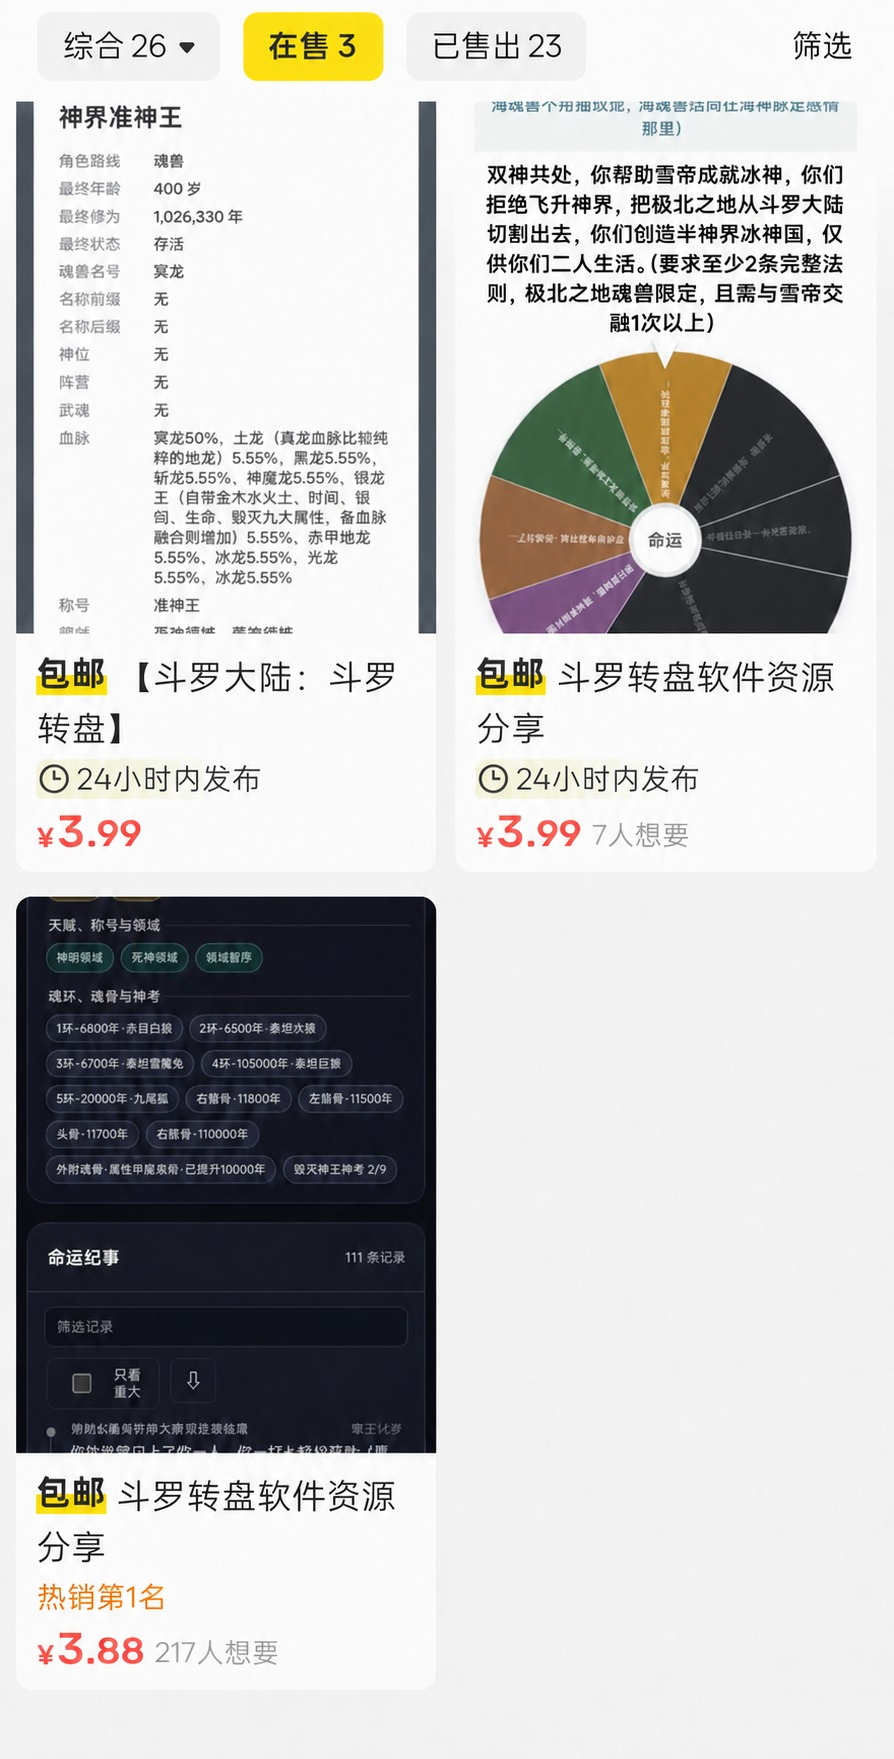
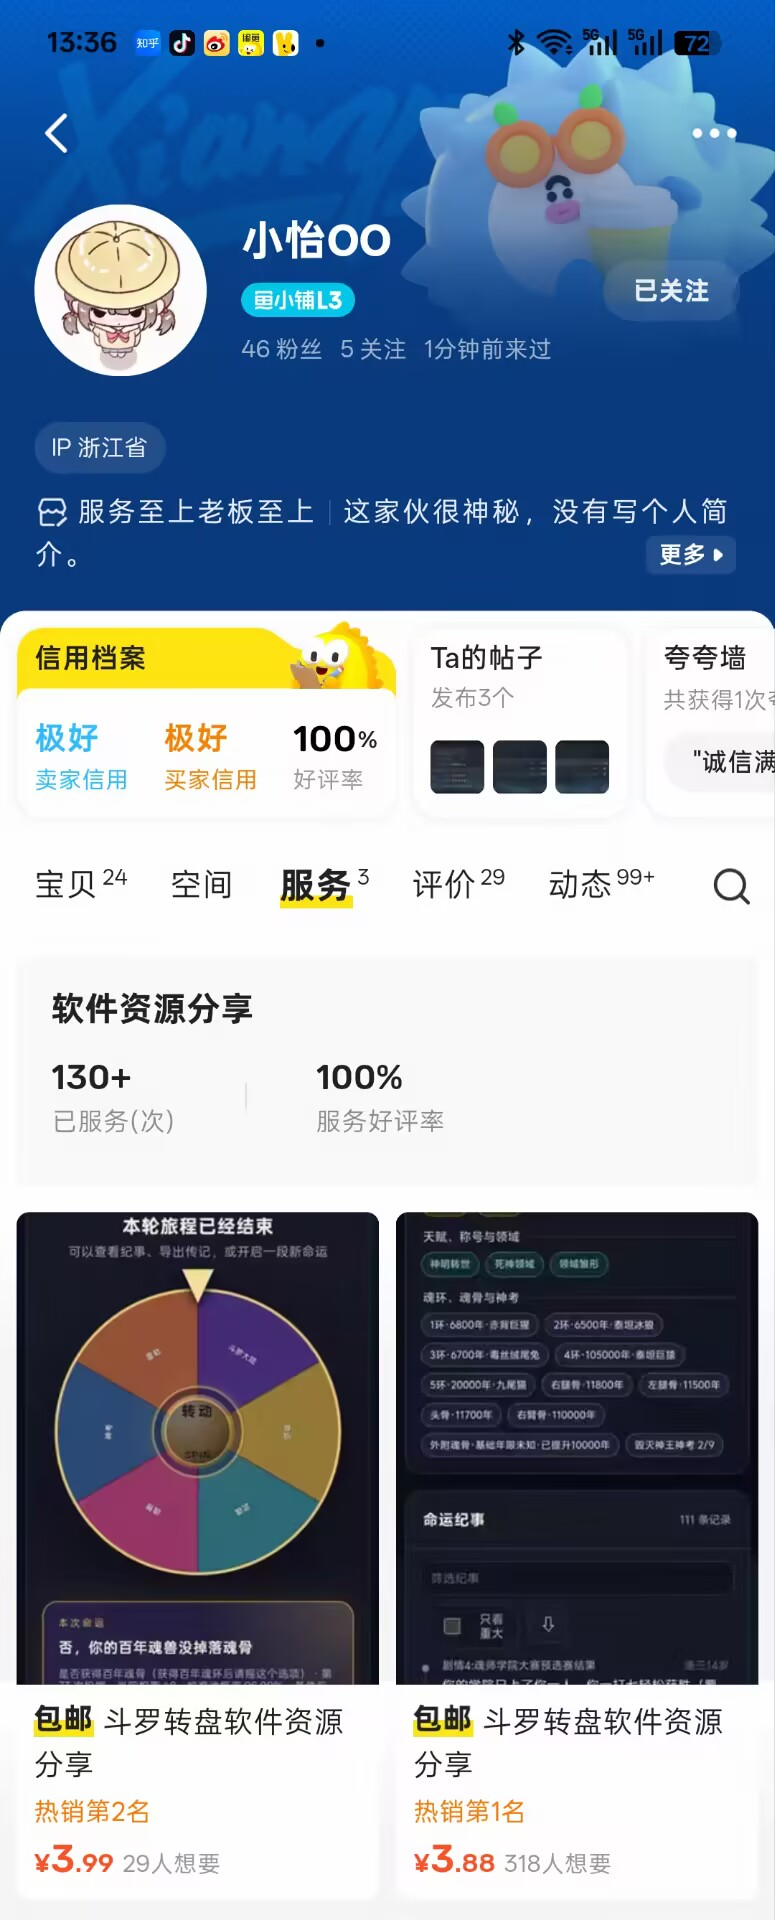
feat: publish douling public presentation

diff --git a/projects/douluo-wheel/v5/index.html b/projects/douluo-wheel/v5/index.html
@@ -1,0 +1,3 @@
+<!doctype html><html lang="zh-CN"><head><meta charset="UTF-8"><meta name="viewport" content="width=device-width,initial-scale=1,viewport-fit=cover"><meta name="theme-color" content="#ffffff"><link rel="icon" type="image/png" href="./favicon.png"><title>斗灵大陆·命运转盘</title>  <script type="module" crossorigin src="./assets/index-DgLJ4sHx.js"></script>
+  <link rel="stylesheet" crossorigin href="./assets/index-D7fNHj9D.css">
+</head><body><div id="app"></div></body></html>

diff --git a/projects/douluo-wheel/v5/assets/App-B7U7q4Xk.css b/projects/douluo-wheel/v5/assets/App-B7U7q4Xk.css
@@ -1,0 +1,1 @@
+.author-note-overlay[data-v-51e030eb]{position:fixed;z-index:100;top:0;right:0;bottom:0;left:0;display:grid;place-items:center;padding:max(12px,var(--safe-area-inset-top, env(safe-area-inset-top, 0px))) calc(12px + var(--safe-area-inset-right, env(safe-area-inset-right, 0px))) max(12px,var(--safe-area-inset-bottom, env(safe-area-inset-bottom, 0px))) calc(12px + var(--safe-area-inset-left, env(safe-area-inset-left, 0px)));background:#17232ac2}.author-note-dialog[data-v-51e030eb]{display:flex;width:min(100%,520px);max-height:100%;min-height:0;overflow:hidden;flex-direction:column;border:1px solid #dce5e8;border-radius:8px;background:#fff;box-shadow:0 22px 70px #0000003d}.author-note-dialog header[data-v-51e030eb]{display:flex;flex:0 0 auto;align-items:center;padding:16px 18px 13px;border-bottom:1px solid #e7edef}.author-note-dialog header>span[data-v-51e030eb]{display:grid;width:42px;height:42px;margin-right:12px;flex:0 0 auto;place-items:center;border-radius:50%;background:#294f63;color:#f3d38d;font-size:19px;font-weight:800}.author-note-dialog header p[data-v-51e030eb]{margin:0 0 2px;color:#718089;font-size:12px}.author-note-dialog h1[data-v-51e030eb]{margin:0;color:#263842;font-size:22px}.author-note-content[data-v-51e030eb]{min-height:0;padding:14px 18px 18px;overflow-x:hidden;overflow-y:auto;color:#46565f;font-size:14px;line-height:1.75;overflow-wrap:anywhere;-webkit-overflow-scrolling:touch}.author-note-content p[data-v-51e030eb]{margin:0 0 12px}.author-note-content p[data-v-51e030eb]:last-of-type{margin-bottom:16px}.author-note-content img[data-v-51e030eb]{display:block;width:min(100%,330px);height:auto;margin:0 auto;border:1px solid #e3e8ea}.author-note-dialog footer[data-v-51e030eb]{flex:0 0 auto;padding:11px 16px 14px;border-top:1px solid #e1e8ea;background:#fff}.author-note-dialog footer button[data-v-51e030eb]{width:100%;min-height:46px;border:0;border-radius:8px;background:#246c83;color:#fff;font-weight:800}@media (max-width: 360px){.author-note-overlay[data-v-51e030eb]{padding-right:7px;padding-left:7px}.author-note-dialog header[data-v-51e030eb]{padding:12px 14px 10px}.author-note-dialog h1[data-v-51e030eb]{font-size:20px}.author-note-content[data-v-51e030eb]{padding:12px 14px 14px;font-size:13px}.author-note-content img[data-v-51e030eb]{width:min(100%,285px)}}.disclaimer-screen[data-v-b9a787b7]{position:fixed;z-index:100;top:0;right:0;bottom:0;left:0;display:flex;overflow:hidden;justify-content:center;padding-top:max(14px,var(--safe-area-inset-top, env(safe-area-inset-top, 0px)));padding-right:calc(14px + var(--safe-area-inset-right, env(safe-area-inset-right, 0px)));padding-bottom:max(14px,var(--safe-area-inset-bottom, env(safe-area-inset-bottom, 0px)));padding-left:calc(14px + var(--safe-area-inset-left, env(safe-area-inset-left, 0px)));background:linear-gradient(165deg,#edf4f5,#fff 55%,#f6f0e6)}.disclaimer-card[data-v-b9a787b7]{display:flex;width:min(100%,560px);min-height:0;overflow:hidden;flex-direction:column;border:1px solid #dce5e8;border-radius:22px;background:#fff;box-shadow:0 22px 70px #263b4a1f}.disclaimer-header[data-v-b9a787b7]{display:flex;flex:0 0 auto;align-items:center;padding:18px 20px 14px;border-bottom:1px solid #e7edef}.disclaimer-mark[data-v-b9a787b7]{display:grid;width:48px;height:48px;margin-right:13px;flex:0 0 auto;place-items:center;border-radius:50%;background:#294f63;color:#f3d38d;font-size:23px;font-weight:800}.disclaimer-header p[data-v-b9a787b7]{margin:0 0 2px;color:#718089;font-size:12px}.disclaimer-header h1[data-v-b9a787b7]{margin:0;color:#263842;font-size:24px}.disclaimer-content[data-v-b9a787b7]{min-height:0;padding:4px 20px 22px;overflow-x:hidden;overflow-y:auto;color:#46565f;font-size:14px;line-height:1.75;overflow-wrap:anywhere;-webkit-overflow-scrolling:touch}.disclaimer-content section[data-v-b9a787b7]{padding:16px 0 2px;border-bottom:1px solid #edf1f2}.disclaimer-content section[data-v-b9a787b7]:last-child{border-bottom:0}.disclaimer-content h2[data-v-b9a787b7]{margin:0 0 8px;color:#263842;font-size:16px}.disclaimer-content p[data-v-b9a787b7]{margin:7px 0}.disclaimer-content strong[data-v-b9a787b7]{color:#273c47}.disclaimer-content ul[data-v-b9a787b7]{margin:7px 0;padding-left:21px}.disclaimer-content li+li[data-v-b9a787b7]{margin-top:7px}.disclaimer-content a[data-v-b9a787b7]{color:#176d88;font-weight:700}.disclaimer-actions[data-v-b9a787b7]{flex:0 0 auto;padding:12px 16px 15px;border-top:1px solid #e1e8ea;background:#fff}.read-hint[data-v-b9a787b7]{margin:0 0 8px;color:#a24a33;font-size:13px;line-height:1.4;text-align:center}.disclaimer-button-wrap[data-v-b9a787b7]{position:relative}.disclaimer-actions button[data-v-b9a787b7]{width:100%;min-height:48px;padding:12px 18px;border:0;border-radius:11px;background:#246c83;color:#fff;font-weight:800;box-shadow:0 6px 16px #246c8338}.disclaimer-actions button[data-v-b9a787b7]:disabled{background:#a8b0b5;color:#eef2f4;cursor:not-allowed;box-shadow:none}.read-hint-trigger[data-v-b9a787b7]{position:absolute;z-index:1;top:0;right:0;bottom:0;left:0;width:100%;min-height:48px;padding:0;cursor:not-allowed;opacity:0}@media (max-width: 360px){.disclaimer-screen[data-v-b9a787b7]{padding-right:8px;padding-left:8px}.disclaimer-header[data-v-b9a787b7]{padding:14px 15px 11px}.disclaimer-mark[data-v-b9a787b7]{width:42px;height:42px;font-size:20px}.disclaimer-header h1[data-v-b9a787b7]{font-size:21px}.disclaimer-content[data-v-b9a787b7]{padding-right:15px;padding-left:15px;font-size:13px}}.advanced-wheel-fields label[data-v-a723274e]{margin:8px 0}.advanced-wheel-fields span[data-v-a723274e]{display:block;color:#667781;font-size:12px;font-weight:700}.advanced-wheel-result[data-v-a723274e]{min-height:48px;margin:12px 0;padding:11px 12px;border:1px solid #e0e7e9;border-radius:10px;background:#f5f8f8;color:#263b46;font-weight:750;line-height:1.55;text-align:center}.advanced-wheel-stage[data-v-a723274e]{padding:4px 0 10px}.advanced-wheel-stage[data-v-a723274e] .wheel-shell{width:76vw;height:76vw;width:min(76vw,320px);height:min(76vw,320px);max-width:320px;max-height:320px}.advanced-wheel-start[data-v-a723274e]{width:100%;min-height:42px;background:#246c83!important;color:#fff;font-weight:750}.advanced-wheel-start[data-v-a723274e]:disabled{opacity:.45}[data-v-507515a9],[data-v-507515a9]:before,[data-v-507515a9]:after{box-sizing:border-box}.anti-resale-screen[data-v-507515a9]{position:fixed;z-index:110;top:0;right:0;bottom:0;left:0;display:flex;overflow:hidden;justify-content:center;padding-top:max(12px,var(--safe-area-inset-top, env(safe-area-inset-top, 0px)));padding-right:calc(12px + var(--safe-area-inset-right, env(safe-area-inset-right, 0px)));padding-bottom:max(12px,var(--safe-area-inset-bottom, env(safe-area-inset-bottom, 0px)));padding-left:calc(12px + var(--safe-area-inset-left, env(safe-area-inset-left, 0px)));background:radial-gradient(circle at 12% 5%,rgb(245 188 75 / 17%),transparent 35%),linear-gradient(165deg,#f5f7f4,#fff 52%,#f8f1e6)}.anti-resale-card[data-v-507515a9]{display:flex;width:min(100%,620px);min-width:0;min-height:0;overflow:hidden;flex-direction:column;border:1px solid #e2e5df;border-radius:22px;background:#fff;box-shadow:0 22px 70px #433a2626}.notice-header[data-v-507515a9]{display:flex;flex:0 0 auto;align-items:center;padding:16px 19px 13px;border-bottom:1px solid #ecece7}.warning-mark[data-v-507515a9]{display:grid;width:46px;height:46px;margin-right:12px;flex:0 0 auto;place-items:center;border:2px solid #f2c968;border-radius:50%;background:#fff7dc;color:#9a6300;font-size:25px;font-weight:900}.notice-header p[data-v-507515a9]{margin:0 0 2px;color:#778087;font-size:12px}.notice-header h1[data-v-507515a9]{margin:0;color:#2f393d;font-size:23px;line-height:1.25}.notice-content[data-v-507515a9]{min-width:0;min-height:0;padding:16px 19px 22px;overflow-x:hidden;overflow-y:auto;color:#485359;font-size:14px;line-height:1.72;overflow-wrap:anywhere;-webkit-overflow-scrolling:touch}.free-badge[data-v-507515a9]{display:inline-flex;margin:0 0 12px;padding:5px 11px;border:1px solid #9fd4bb;border-radius:999px;background:#eaf8f0;color:#19704b;font-size:13px;font-weight:800;letter-spacing:.02em}.key-warning[data-v-507515a9]{margin:0 0 15px;padding:13px 14px;border:1px solid #f0d494;border-left:4px solid #dfa526;border-radius:11px;background:#fffaeb;color:#5f4a1f}.key-warning strong[data-v-507515a9]{color:#8a5700}.copy-section[data-v-507515a9],.advice-card[data-v-507515a9]{margin:0 0 15px}.copy-section h2[data-v-507515a9],.advice-card h2[data-v-507515a9]{margin:0 0 6px;color:#303c42;font-size:16px}.copy-section p[data-v-507515a9],.advice-card p[data-v-507515a9]{margin:6px 0}.evidence-gallery[data-v-507515a9]{display:grid;gap:14px;margin:0 0 16px}.evidence-card[data-v-507515a9]{margin:0;overflow:hidden;border:1px solid #e2e5e5;border-radius:14px;background:#f9faf9}.evidence-card figcaption[data-v-507515a9]{display:flex;padding:11px 13px;flex-direction:column;border-bottom:1px solid #e6e8e7;color:#596369;font-size:12px;line-height:1.55}.evidence-card figcaption strong[data-v-507515a9]{color:#303b40;font-size:14px}.evidence-image-button[data-v-507515a9]{position:relative;display:block;width:100%;padding:0;overflow:hidden;border:0;background:#edf0ef;color:#fff;cursor:zoom-in}.evidence-image-button img[data-v-507515a9]{display:block;width:100%;max-height:330px;object-fit:contain}.evidence-image-button span[data-v-507515a9]{position:absolute;right:9px;bottom:9px;padding:4px 8px;border-radius:999px;background:#1b2428b8;font-size:11px}.image-fallback[data-v-507515a9]{display:grid;min-height:150px;padding:20px;place-items:center;align-content:center;color:#687176;text-align:center}.image-fallback span[data-v-507515a9]{display:grid;width:42px;height:42px;place-items:center;border-radius:50%;background:#e7ebea;font-weight:800}.image-fallback p[data-v-507515a9]{margin:8px 0 0}.advice-card[data-v-507515a9]{padding:12px 14px;border-radius:11px;background:#f1f6f7}.report-guide[data-v-507515a9]{border:1px solid #dfe5e6;border-radius:11px;background:#fff}.report-guide summary[data-v-507515a9]{padding:12px 14px;color:#23657a;font-weight:800;cursor:pointer}.report-guide[open] summary[data-v-507515a9]{border-bottom:1px solid #e4e9ea}.report-guide ol[data-v-507515a9]{margin:13px 18px 10px;padding-left:22px}.report-guide li+li[data-v-507515a9]{margin-top:4px}.report-guide>p[data-v-507515a9]{margin:10px 18px 14px}.report-note[data-v-507515a9]{color:#637078;font-size:13px}.notice-actions[data-v-507515a9]{display:flex;flex:0 0 auto;gap:9px;padding:11px 15px 14px;border-top:1px solid #e3e8e8;background:#fff}.notice-actions button[data-v-507515a9]{min-width:0;min-height:47px;padding:11px 15px;border-radius:10px;font-weight:800}.primary-action[data-v-507515a9]{flex:1 1 auto;border:0;background:#246c83;color:#fff;box-shadow:0 6px 16px #246c8338}.secondary-action[data-v-507515a9]{flex:0 1 auto;border:1px solid #b9c8cd;background:#fff;color:#486069}.image-preview[data-v-507515a9]{position:fixed;z-index:1;top:0;right:0;bottom:0;left:0;display:grid;padding:max(12px,var(--safe-area-inset-top, env(safe-area-inset-top, 0px))) calc(12px + var(--safe-area-inset-right, env(safe-area-inset-right, 0px))) max(12px,var(--safe-area-inset-bottom, env(safe-area-inset-bottom, 0px))) calc(12px + var(--safe-area-inset-left, env(safe-area-inset-left, 0px)));place-items:center;background:#161d20d1}.image-preview-panel[data-v-507515a9]{display:flex;width:min(100%,760px);max-height:100%;min-width:0;min-height:0;overflow:hidden;flex-direction:column;border-radius:14px;background:#fff;box-shadow:0 22px 60px #00000052}.image-preview-panel header[data-v-507515a9]{display:flex;align-items:center;justify-content:space-between;gap:12px;padding:10px 12px 10px 15px;border-bottom:1px solid #e3e7e8}.image-preview-panel h2[data-v-507515a9]{margin:0;color:#303b40;font-size:16px}.image-preview-panel header button[data-v-507515a9]{display:grid;width:38px;height:38px;padding:0;flex:0 0 auto;place-items:center;border:0;border-radius:50%;background:#edf1f1;color:#35454b;font-size:25px;line-height:1}.image-preview-scroll[data-v-507515a9]{min-height:0;overflow:auto;background:#edf0ef;-webkit-overflow-scrolling:touch}.image-preview-scroll img[data-v-507515a9]{display:block;width:100%;height:auto;margin:0 auto}button[data-v-507515a9]:focus-visible,summary[data-v-507515a9]:focus-visible,.notice-content[data-v-507515a9]:focus-visible{outline:3px solid rgb(39 126 155 / 38%);outline-offset:2px}@media (max-width: 360px){.anti-resale-screen[data-v-507515a9]{padding-right:calc(7px + var(--safe-area-inset-right, env(safe-area-inset-right, 0px)));padding-left:calc(7px + var(--safe-area-inset-left, env(safe-area-inset-left, 0px)))}.anti-resale-card[data-v-507515a9]{border-radius:15px}.notice-header[data-v-507515a9]{padding:12px 13px 10px}.warning-mark[data-v-507515a9]{width:40px;height:40px;margin-right:10px;font-size:21px}.notice-header h1[data-v-507515a9]{font-size:20px}.notice-content[data-v-507515a9]{padding:13px 13px 17px;font-size:13px}.notice-actions[data-v-507515a9]{flex-direction:column;padding:9px 11px 11px}.notice-actions button[data-v-507515a9]{width:100%;min-height:44px}}@media (max-width: 480px){.notice-actions[data-v-507515a9]{flex-direction:column}.notice-actions button[data-v-507515a9]{width:100%}}@media (max-height: 520px) and (orientation: landscape){.anti-resale-screen[data-v-507515a9]{padding-top:max(6px,var(--safe-area-inset-top, env(safe-area-inset-top, 0px)));padding-bottom:max(6px,var(--safe-area-inset-bottom, env(safe-area-inset-bottom, 0px)))}.notice-header[data-v-507515a9]{padding-top:9px;padding-bottom:8px}.warning-mark[data-v-507515a9]{width:36px;height:36px}.notice-actions[data-v-507515a9]{padding-top:7px;padding-bottom:7px}.notice-actions button[data-v-507515a9]{min-height:40px}}

diff --git a/projects/douluo-wheel/v5/assets/index-D7fNHj9D.css b/projects/douluo-wheel/v5/assets/index-D7fNHj9D.css
@@ -1,0 +1,1 @@
+.service-unavailable[data-v-1e6d34d6]{align-items:center;background:#f7f9fc;box-sizing:border-box;color:#4b3225;display:flex;justify-content:center;min-height:100dvh;overflow:hidden;padding:24px;text-align:center}.service-unavailable[data-v-1e6d34d6]:before{border:32px solid rgb([phone redacted] / 7%);border-radius:50%;content:"";height:min(34vw,360px);position:fixed;right:max(-5vw,-80px);top:max(-7vw,-110px);width:min(34vw,360px)}.service-unavailable__card[data-v-1e6d34d6]{background:#fff;border:1px solid rgb([phone redacted] / 84%);border-radius:20px;box-shadow:0 20px 60px #1226460f,0 8px 24px #1226460a;max-width:600px;padding:52px 48px 46px;position:relative;z-index:1}.service-unavailable__eyebrow[data-v-1e6d34d6]{color:#75829a;font-size:.82rem;font-weight:700;letter-spacing:.16em;margin:0 0 16px}.service-unavailable__clock[data-v-1e6d34d6]{align-items:center;background:#f0f4ff;border-radius:50%;color:#4a6cf7;display:flex;height:88px;justify-content:center;margin:0 auto 26px;width:88px}.service-unavailable__clock svg[data-v-1e6d34d6]{fill:none;height:44px;stroke:currentcolor;stroke-linecap:round;stroke-linejoin:round;stroke-width:1.8;width:44px}.service-unavailable h1[data-v-1e6d34d6]{color:#1a2332;font-family:"Noto Serif SC","Source Han Serif SC",serif;font-size:clamp(1.7rem,7vw,2.35rem);margin:0 0 18px}.service-unavailable__description[data-v-1e6d34d6]{color:#5b677b;line-height:1.8;margin:0}.service-unavailable__description strong[data-v-1e6d34d6],.service-unavailable__hint span[data-v-1e6d34d6]{color:#4a6cf7;font-weight:700}.service-unavailable__divider[data-v-1e6d34d6]{background:#e6edf8;border-radius:4px;height:3px;margin:24px auto 20px;width:48px}.service-unavailable__retry[data-v-1e6d34d6]{background:#4a6cf7;border:0;border-radius:999px;color:#fff;cursor:pointer;font:inherit;font-weight:700;margin-top:22px;min-height:44px;padding:10px 28px}.service-unavailable__retry[data-v-1e6d34d6]:focus-visible{outline:3px solid rgb([phone redacted] / 28%);outline-offset:3px}.service-unavailable__hint[data-v-1e6d34d6]{color:#8895aa;line-height:1.7;margin:0}.service-unavailable__hint span[data-v-1e6d34d6]{background:#f2f5fa;border-radius:999px;display:inline-block;font-size:.86rem;margin-top:6px;padding:2px 12px}.service-unavailable__dots[data-v-1e6d34d6]{display:flex;gap:10px;justify-content:center;margin-top:30px}.service-unavailable__dots i[data-v-1e6d34d6]{background:#dce3ef;border-radius:50%;display:block;height:6px;width:6px}.service-unavailable__dots i[data-v-1e6d34d6]:first-child{background:#4a6cf7}.service-unavailable__dots i[data-v-1e6d34d6]:nth-child(2){background:#b3c6e8}@media (max-width: 480px){.service-unavailable__card[data-v-1e6d34d6]{padding:40px 24px 34px}.service-unavailable__clock[data-v-1e6d34d6]{height:72px;margin-bottom:22px;width:72px}.service-unavailable__clock svg[data-v-1e6d34d6]{height:36px;width:36px}}:root{font-family:system-ui,-apple-system,Segoe UI,sans-serif;color:#202a31;background:#eef2f3}*{box-sizing:border-box}body{margin:0}button,input{font:inherit}button{cursor:pointer}.game-screen{max-width:540px;min-height:100vh;margin:auto;padding:12px 14px 22px;padding-top:max(12px,var(--safe-area-inset-top, env(safe-area-inset-top, 0px)));padding-right:calc(14px + var(--safe-area-inset-right, env(safe-area-inset-right, 0px)));padding-bottom:calc(22px + var(--safe-area-inset-bottom, env(safe-area-inset-bottom, 0px)));padding-left:calc(14px + var(--safe-area-inset-left, env(safe-area-inset-left, 0px)));background:#fff}.app-version-label{position:fixed;z-index:1000;right:max(8px,var(--safe-area-inset-right, env(safe-area-inset-right, 0px)));bottom:max(7px,var(--safe-area-inset-bottom, env(safe-area-inset-bottom, 0px)));padding:3px 5px;border:1px solid rgb([phone redacted] / 12%);border-radius:4px;background:#dae0e3ad;color:#3d484eb8;font-size:10px;font-weight:600;line-height:1;letter-spacing:0;pointer-events:none;-webkit-user-select:none;user-select:none}.app-bar{display:flex;justify-content:space-between;align-items:center;min-height:45px;padding:2px 2px 9px;border-bottom:1px solid #edf0f1}.brand{display:flex;min-width:0;align-items:center;gap:9px}.brand-seal{display:grid;width:34px;height:34px;flex:0 0 auto;place-items:center;border-radius:50%;background:#294f63;color:#f3d38d;font-weight:800}.brand b,.brand small{display:block}.brand b{font-size:15px}.brand small{max-width:125px;overflow:hidden;color:#87939a;font-size:9px;text-overflow:ellipsis;white-space:nowrap}.app-bar nav{display:flex}.app-bar button{padding:6px 9px;border:0;background:transparent;color:#23708a;font-size:12px;font-weight:700}.app-bar button:disabled{cursor:default;opacity:.4}.route-pending{padding:18px 8px 13px;color:#263842;text-align:center}.route-pending span,.route-pending b{display:block}.route-pending span{color:#87939a;font-size:11px}.route-pending b{margin-top:5px;font-size:19px}.character-zone{min-height:76px}.narrative-zone{margin-top:2px}.wheel-zone{margin:-2px -4px 0}.exclude-hint{margin:-3px 0 3px;color:#8a969d;font-size:11px;text-align:center}.exclude-hint span{color:#a34c5a;font-weight:700}.wheel-shell.selectable{cursor:pointer}.character-header{display:flex;justify-content:space-between;gap:12px;align-items:center;padding:5px 10px 17px}.character-header strong{display:block;max-width:280px;overflow:hidden;font-size:19px;text-overflow:ellipsis;white-space:nowrap}.character-header.beast{display:block;padding-bottom:10px;text-align:center}.beast-name-heading{padding:0 10px 10px}.beast-name-heading strong{max-width:100%;overflow:visible;color:#263f4c;font-size:19px;overflow-wrap:anywhere;text-overflow:clip;white-space:normal}.beast-bloodline{position:relative;padding:0 25px}.beast-bloodline strong{max-width:100%;font-size:20px}.inline-more{position:absolute;top:18px;right:0;padding:2px 7px;border-radius:999px;background:#edf2f4;color:#60717a;font-size:11px}.attribute-strip{display:flex;min-height:34px;margin:14px auto 4px;align-items:center;justify-content:center;gap:6px;overflow:hidden;white-space:nowrap}.attribute-chip,.attribute-more,.attribute-empty{display:inline-flex;flex:0 0 auto;align-items:center;min-height:28px;padding:5px 9px;border:1px solid #d8e3e7;border-radius:999px;background:#f3f7f8;color:#315466;font-size:13px;font-weight:700}.attribute-chip.law{border-color:#edc3d0;background:#fff0f4;color:#b32555}.attribute-more{border-style:dashed;background:#fff;color:#75838b;font-weight:500}.attribute-empty{color:#8a969d;font-weight:500}.beast-numbers{display:grid;grid-template-columns:1fr 1fr;margin-top:12px;border-top:1px solid #edf0f1;text-align:left}.beast-numbers div{padding:10px 12px 0}.beast-numbers div+div{border-left:1px solid #edf0f1}.beast-numbers span,.beast-numbers b{display:block}.beast-numbers span{color:#829098;font-size:11px}.beast-numbers b{margin-top:2px;color:#b52655;font-size:18px}.eyebrow,.flow-card span,.result-card span{color:#78848e;font-size:12px}.numbers{text-align:right}.numbers b,.numbers span{display:block;white-space:nowrap}.numbers b{font-size:20px}.wheel-shell{position:relative;width:94vw;height:94vw;width:min(94vw,500px);max-width:500px;height:min(94vw,500px);max-height:500px;margin:0 auto;filter:drop-shadow(0 6px 10px #22323d1b)}.wheel-canvas{width:100%;height:100%}.wheel-pointer{position:absolute;z-index:2;top:-1px;left:50%;width:0;height:0;transform:translate(-50%);border-top:29px solid #f7f8f8;border-right:14px solid transparent;border-left:14px solid transparent;filter:drop-shadow(0 2px 1px #0003)}.wheel-hub{position:absolute;z-index:3;inset:calc(50% - 36px);display:grid;place-items:center;border:5px solid #dce2e5;border-radius:50%;background:#fafafa;color:#52636f;font-weight:750;box-shadow:0 2px 8px #0002}.summary{display:flex;min-height:28px;align-items:center;justify-content:center;gap:6px;overflow-x:auto;color:#64717a;font-size:12px;scrollbar-width:none;white-space:nowrap}.summary::-webkit-scrollbar{display:none}.ring-summary{padding:4px 7px;border-radius:999px;background:#f2f4f5;color:#3f505b}.beast-name-summary{padding:4px 7px;border-radius:999px;background:#edf4f1;color:#315b4f;font-weight:750}.god-summary{color:#ad7b16;font-weight:750}.progress{position:sticky;bottom:8px;bottom:max(8px,var(--safe-area-inset-bottom, env(safe-area-inset-bottom, 0px)));z-index:5;display:grid;grid-template-columns:.85fr 1.65fr .85fr auto;gap:7px;margin-top:9px;padding:7px;border:1px solid #e1e7e9;border-radius:14px;background:#fffffff2;box-shadow:0 8px 24px #263b4a1f}.progress button{padding:11px 8px;border:0;border-radius:9px;font-weight:750}.progress button:disabled{opacity:.45}.progress .primary{background:#246c83;color:#fff;box-shadow:0 5px 13px #246c8338}.progress .secondary{background:#edf2f4;color:#315466}.progress .auto-toggle.active{background:#fae8eb;color:#aa3449}.progress .menu{background:transparent;color:#687780;font-size:11px}.advance-zone{position:sticky;z-index:5;bottom:8px;bottom:max(8px,var(--safe-area-inset-bottom, env(safe-area-inset-bottom, 0px)));min-height:63px}.advance-zone .progress{position:static;margin-top:9px}.advance-zone>button{width:100%;margin-top:9px;padding:14px 16px;border:1px solid #1f6075;border-radius:13px;background:#246c83;color:#fff;font-weight:800;box-shadow:0 8px 22px #246c8338}.result-ready{color:#246c83;font-weight:700}.result-actions{position:sticky;z-index:6;bottom:max(8px,var(--safe-area-inset-bottom, env(safe-area-inset-bottom, 0px)));display:grid;grid-template-columns:minmax(0,.85fr) minmax(0,1.35fr);gap:8px;margin-top:9px;padding:7px;border:1px solid #e1e7e9;border-radius:14px;background:#fffffff2;box-shadow:0 8px 24px #263b4a1f}.result-actions>:only-child{grid-column:1 / -1}.result-action{min-width:0;min-height:45px;padding:11px 8px;border:0;border-radius:9px;font-weight:800}.result-action:disabled{opacity:.45}.result-action-undo{background:#edf2f4;color:#315466}.result-action-primary{background:#246c83;color:#fff;box-shadow:0 5px 13px #246c8338}.result-action-pause{grid-column:1 / -1;background:#fae8eb;color:#aa3449}.feature-unlock-toast{position:fixed;z-index:40;right:18px;bottom:84px;bottom:calc(84px + var(--safe-area-inset-bottom, env(safe-area-inset-bottom, 0px)));margin:0;padding:11px 15px;border-radius:999px;background:#263b46;color:#fff;font-size:13px;font-weight:750;box-shadow:0 8px 28px #0003}.undo-dialog-overlay{position:fixed;z-index:40;top:0;right:0;bottom:0;left:0;display:grid;place-items:center;padding:18px;background:#17232ab8}.undo-dialog{width:min(100%,410px);padding:23px;border-radius:18px;background:#fff;box-shadow:0 22px 70px #0004}.undo-dialog h2{margin:0 0 10px;font-size:21px}.undo-dialog p{margin:0;color:#64747d;font-size:14px;line-height:1.7}.undo-dialog-actions{display:grid;grid-template-columns:1fr 1.45fr;gap:8px;margin-top:20px}.undo-dialog-actions button{min-width:0;min-height:43px;padding:10px;border:0;border-radius:9px;font-weight:750}.undo-dialog-actions button:disabled{opacity:.45}.undo-dialog-secondary{background:#edf2f4;color:#315466}.undo-dialog-primary{background:#246c83;color:#fff}.undo-dialog-actions .undo-dialog-cancel{grid-column:1 / -1;min-height:38px;background:transparent;color:#687780}.drawer-overlay{position:fixed;z-index:10;top:0;right:0;bottom:0;left:0;background:#17232a70}.drawer{position:absolute;inset:0 0 0 auto;width:min(90vw,420px);overflow:auto;padding:20px;background:#fff;box-shadow:-8px 0 32px #0003}.drawer-head{display:flex;align-items:center;justify-content:space-between;border-bottom:1px solid #edf0f1}.drawer-head h2{margin:0 0 13px;font-size:20px}.drawer button{padding:8px;border:0;border-radius:8px;background:#e9eef0}.drawer label{display:block;margin:18px 0}.drawer label b{float:right}.drawer input[type=range]{width:100%;margin-top:12px}.toggle-line{display:flex!important;align-items:center;justify-content:space-between}.drawer li{line-height:1.6}.drawer-section{padding:14px 0;border-bottom:1px solid #edf0f1}.drawer-section h3{margin:0 0 10px;font-size:15px}.drawer-actions{display:grid;grid-template-columns:1fr 1fr;gap:8px}.drawer-actions.single-action{grid-template-columns:1fr}.drawer-actions button,.file-button{width:100%;min-height:40px;box-sizing:border-box;padding:9px;border:1px solid #d7e1e5;border-radius:9px;background:#f4f7f8;color:#315466;font-size:13px;font-weight:700;line-height:1.2;text-align:center}.drawer-actions button:disabled{opacity:.45}.file-button{display:grid!important;place-items:center;margin:0!important;cursor:pointer}.file-button.disabled{cursor:default;opacity:.45}.file-button input{position:absolute;width:1px;height:1px;opacity:0;pointer-events:none}.save-meta,.drawer-note{color:#718089;font-size:12px;line-height:1.55}.settings-link-button{display:flex;width:100%;min-height:44px;align-items:center;justify-content:space-between;gap:12px;padding:10px 12px!important;border:1px solid #d7e1e5!important;background:#f7fafb!important;color:#315466;font-weight:750;text-align:left}.settings-link-button small{color:#718089;font-size:12px;font-weight:600}.settings-link-button:focus-visible{outline:3px solid rgb([phone redacted] / 28%);outline-offset:2px}.speech-diagnostics{margin:14px 0 8px;padding:12px;border:1px solid #dce6e9;border-radius:10px;background:#f7fafb}.speech-diagnostics>p{display:flex;justify-content:space-between;gap:12px;margin:5px 0}.speech-diagnostics button{width:100%;min-height:40px;margin-top:8px;border:0;border-radius:9px;background:#246c83;color:#fff;font-weight:750}.speech-diagnostics button:disabled{opacity:.55}.speech-diagnostics .speech-message{display:block;margin:9px 0 0;color:#46616d;line-height:1.5}.speech-diagnostics details{margin-top:9px;color:#64747c}.speech-diagnostics summary{cursor:pointer;font-size:12px}.speech-diagnostics small{display:block;margin-top:6px;line-height:1.6;overflow-wrap:anywhere}.speech-notice-toast{top:72px;bottom:auto}.empty-state{padding:30px 0;color:#8a969d;text-align:center}.drawer select,.drawer-input,.timeline-filters>input,.timeline-filters select{width:100%;min-height:40px;box-sizing:border-box;margin:6px 0;padding:8px;border:1px solid #d7e1e5;border-radius:8px;background:#fff}.free-result{padding:12px;border-radius:9px;background:#f1f5f6;font-weight:700}.soul-detail{margin:12px 0;padding:10px;border:1px solid #e1e7e9;border-radius:10px}.soul-detail h3{margin:0 0 7px}.soul-detail ol{padding-left:20px}.timeline-filters{display:grid;gap:6px;margin-top:12px}.timeline-filter-row{display:grid;grid-template-columns:minmax(0,1fr) auto;align-items:center;gap:10px}.timeline-major-toggle{display:inline-flex!important;align-items:center;gap:6px;width:auto;margin:0!important;white-space:nowrap;cursor:pointer}.timeline-major-toggle input[type=checkbox]{width:16px;height:16px;min-height:0;margin:0;padding:0;accent-color:#246c83}.ending-overlay{position:fixed;z-index:30;top:0;right:0;bottom:0;left:0;display:grid;place-items:center;padding:18px;background:#17232ab8}.ending-card{width:min(100%,440px);max-height:90vh;overflow:auto;padding:25px;border-radius:20px;background:#fff;box-shadow:0 22px 70px #0004}.ending-card>span{color:#8a6a2f;font-weight:700}.ending-card h2{margin:5px 0 14px;font-size:26px}.ending-card dl{display:grid;grid-template-columns:90px 1fr;gap:8px;margin:18px 0}.ending-card dt{color:#78848e}.ending-card dd{margin:0;overflow-wrap:anywhere}.ending-card button{width:100%;padding:12px;border:0;border-radius:10px;background:#246c83;color:#fff;font-weight:750}.ending-actions{display:grid;grid-template-columns:minmax(0,1fr) auto;gap:8px;margin-top:14px}.ending-actions .ending-close{width:auto;min-width:86px;background:#edf2f4;color:#315466}.death-cause{color:#a52f46;font-weight:700}.drawer-pagination{display:none}.safe-effect-toggle{display:flex;align-items:center;gap:.55rem;margin:8px 0;color:#334155;font-size:.9rem}.safe-effect-toggle input{width:1rem;height:1rem;margin:0}.ending-text{line-height:1.75;color:#35434b}.ending-soul{margin:10px 0;padding:10px;border-radius:10px;background:#f5f7f7}.ending-soul p{margin:6px 0 0;color:#52616a;line-height:1.6}.risk-warning{margin:6px 0;padding:9px 10px;border-radius:8px;background:#fff2e8;color:#a13d20;font-size:.86rem;font-weight:700}.start-overlay{position:fixed;z-index:20;top:0;right:0;bottom:0;left:0;display:grid;place-items:center;padding:18px;background:linear-gradient(165deg,#edf4f5,#fff 55%,#f6f0e6)}.start-dialog{width:min(100%,420px);padding:28px 24px 24px;border:1px solid #e0e7e9;border-radius:22px;background:#fff;text-align:center;box-shadow:0 22px 70px #263b4a1f}.start-mark{display:grid;width:58px;height:58px;margin:0 auto 15px;place-items:center;border-radius:50%;background:#294f63;color:#f3d38d;font-size:27px;font-weight:800}.start-dialog h1{margin:0;font-size:24px}.start-dialog p{margin:12px 0 21px;color:#66747c;font-size:14px;line-height:1.65}.start-dialog label{display:block;color:#4f5e66;font-size:13px;text-align:left}.start-dialog input{width:100%;margin-top:6px;padding:12px;border:1px solid #ccd7dc;border-radius:10px;color:#263842}.seed-button,.start-button,.cancel-button{width:100%;margin-top:10px;padding:12px;border:0;border-radius:10px;font-weight:750}.seed-button{background:#edf2f4;color:#365365}.start-button{background:#246c83;color:#fff}.cancel-button{background:transparent;color:#60717a}@media (max-width: 360px){.game-screen{padding-right:8px;padding-left:8px}.wheel-shell{width:96vw;height:96vw}.progress{gap:4px}.progress button{padding:10px 5px}.result-actions{grid-template-columns:1fr}.result-actions>*{grid-column:1}.undo-dialog-actions{grid-template-columns:1fr}.undo-dialog-actions .undo-dialog-cancel{grid-column:1}}@media (max-width: 640px){.drawer-paginated{display:flex;flex-direction:column;overflow:hidden}.drawer-paginated .drawer-head{flex:0 0 auto}.drawer-page-content{min-height:0;flex:1 1 auto;overflow-y:auto;overscroll-behavior:contain}.drawer-page:not(.active),.timeline-entry.mobile-page-hidden{display:none}.drawer-pagination{display:grid;grid-template-columns:minmax(0,1fr) auto minmax(0,1fr);flex:0 0 auto;align-items:center;gap:8px;padding-top:10px;border-top:1px solid #edf0f1}.drawer-pagination button{min-height:44px;color:#315466;font-weight:700}.drawer-pagination button:disabled{opacity:.45}.drawer-pagination span{min-width:78px;color:#64747d;font-size:12px;font-weight:700;text-align:center;white-space:nowrap}}.flow-card{margin:3px 4px 7px;padding:10px 14px;border-radius:12px;background:#f1f3f4;color:#156681;text-align:center;box-shadow:0 4px 12px #263b4a0b}.flow-card p{margin:0;font-size:15px;line-height:1.4}.result-card{display:grid;min-height:110px;padding:2px 9px 5px;overflow:hidden;place-items:center;text-align:center}.result-card p{margin:0;color:#111;font-size:clamp(18px,4.7vw,24px);font-weight:750;line-height:1.35}.result-card.spinning p{display:-webkit-box;overflow:hidden;-webkit-box-orient:vertical;-webkit-line-clamp:3}@supports not (gap: 8px){.progress>button{margin:2px}.route-picker>*{margin-right:4px}}@supports not (gap: 8px){.drawer-actions>*{margin:3px}.safe-effect-toggle>*{margin-right:6px}.ending-card dl>*{margin:3px 0}}@supports not (gap: 8px){.result-actions>*{margin:3px}.undo-dialog-actions>*{margin:3px}}@media (max-width:380px){.game-screen{padding-left:9px;padding-right:9px}.brand-seal{width:30px;height:30px}.brand small{display:none}.app-bar button{padding:6px 5px;font-size:11px}.drawer-actions{flex-wrap:wrap}.drawer-actions>*{min-width:0;max-width:100%}}

diff --git a/projects/douluo-wheel/v5/assets/web-BbSgUuZQ.js b/projects/douluo-wheel/v5/assets/web-BbSgUuZQ.js
@@ -1,0 +1,1 @@
+import{W as n}from"./index-DgLJ4sHx.js";class r extends n{async show(e){}async hide(e){}}export{r as SplashScreenWeb};

diff --git a/projects/douluo-wheel/v5/assets/web-CiNgJX0j.js b/projects/douluo-wheel/v5/assets/web-CiNgJX0j.js
@@ -1,0 +1,1 @@
+import{W as t}from"./index-DgLJ4sHx.js";class s extends t{constructor(){super(),this.handleVisibilityChange=()=>{const e={isActive:document.hidden!==!0};this.notifyListeners("appStateChange",e),document.hidden?this.notifyListeners("pause",null):this.notifyListeners("resume",null)},document.addEventListener("visibilitychange",this.handleVisibilityChange,!1)}exitApp(){throw this.unimplemented("Not implemented on web.")}async getInfo(){throw this.unimplemented("Not implemented on web.")}async getLaunchUrl(){return{url:""}}async getState(){return{isActive:document.hidden!==!0}}async minimizeApp(){throw this.unimplemented("Not implemented on web.")}async toggleBackButtonHandler(){throw this.unimplemented("Not implemented on web.")}async getAppLanguage(){return{value:navigator.language.split("-")[0].toLowerCase()}}}export{s as AppWeb};

diff --git a/projects/douluo-wheel/v5/assets/web-DZzmFiSj.js b/projects/douluo-wheel/v5/assets/web-DZzmFiSj.js
@@ -1,0 +1,1 @@
+import{W as P,G as x}from"./index-DgLJ4sHx.js";import{E}from"./App-CB5t3GVi.js";function m(w){const e=w.split("/").filter(t=>t!=="."),r=[];return e.forEach(t=>{t===".."&&r.length>0&&r[r.length-1]!==".."?r.pop():r.push(t)}),r.join("/")}function R(w,e){w=m(w),e=m(e);const r=w.split("/"),t=e.split("/");return w!==e&&r.every((i,n)=>i===t[n])}class g extends P{constructor(){super(...arguments),this.DB_VERSION=1,this.DB_NAME="Disc",this._writeCmds=["add","put","delete"],this.downloadFile=async e=>{var r,t;const i=x(e,e.webFetchExtra),n=await fetch(e.url,i);let s;if(!e.progress)s=await n.blob();else if(!(n!=null&&n.body))s=new Blob;else{const c=n.body.getReader();let o=0;const d=[],h=n.headers.get("content-type"),y=parseInt(n.headers.get("content-length")||"0",10);for(;;){const{done:f,value:p}=await c.read();if(f)break;d.push(p),o+=(p==null?void 0:p.length)||0;const b={url:e.url,bytes:o,contentLength:y};this.notifyListeners("progress",b)}const u=new Uint8Array(o);let l=0;for(const f of d)typeof f>"u"||(u.set(f,l),l+=f.length);s=new Blob([u.buffer],{type:h||void 0})}return{path:(await this.writeFile({path:e.path,directory:(r=e.directory)!==null&&r!==void 0?r:void 0,recursive:(t=e.recursive)!==null&&t!==void 0?t:!1,data:s})).uri,blob:s}}}readFileInChunks(e,r){throw this.unavailable("Method not implemented.")}async initDb(){if(this._db!==void 0)return this._db;if(!("indexedDB"in window))throw this.unavailable("This browser doesn't support IndexedDB");return new Promise((e,r)=>{const t=indexedDB.open(this.DB_NAME,this.DB_VERSION);t.onupgradeneeded=g.doUpgrade,t.onsuccess=()=>{this._db=t.result,e(t.result)},t.onerror=()=>r(t.error),t.onblocked=()=>{console.warn("db blocked")}})}static doUpgrade(e){const t=e.target.result;switch(e.oldVersion){case 0:case 1:default:t.objectStoreNames.contains("FileStorage")&&t.deleteObjectStore("FileStorage"),t.createObjectStore("FileStorage",{keyPath:"path"}).createIndex("by_folder","folder")}}async dbRequest(e,r){const t=this._writeCmds.indexOf(e)!==-1?"readwrite":"readonly";return this.initDb().then(i=>new Promise((n,s)=>{const o=i.transaction(["FileStorage"],t).objectStore("FileStorage")[e](...r);o.onsuccess=()=>n(o.result),o.onerror=()=>s(o.error)}))}async dbIndexRequest(e,r,t){const i=this._writeCmds.indexOf(r)!==-1?"readwrite":"readonly";return this.initDb().then(n=>new Promise((s,a)=>{const h=n.transaction(["FileStorage"],i).objectStore("FileStorage").index(e)[r](...t);h.onsuccess=()=>s(h.result),h.onerror=()=>a(h.error)}))}getPath(e,r){const t=r!==void 0?r.replace(/^[/]+|[/]+$/g,""):"";let i="";return e!==void 0&&(i+="/"+e),r!==""&&(i+="/"+t),i}async clear(){(await this.initDb()).transaction(["FileStorage"],"readwrite").objectStore("FileStorage").clear()}async readFile(e){const r=this.getPath(e.directory,e.path),t=await this.dbRequest("get",[r]);if(t===void 0)throw Error("File does not exist.");return{data:t.content?t.content:""}}async writeFile(e){const r=this.getPath(e.directory,e.path);let t=e.data;const i=e.encoding,n=e.recursive,s=await this.dbRequest("get",[r]);if(s&&s.type==="directory")throw Error("The supplied path is a directory.");const a=r.substr(0,r.lastIndexOf("/"));if(await this.dbRequest("get",[a])===void 0){const h=a.indexOf("/",1);if(h!==-1){const y=a.substr(h);await this.mkdir({path:y,directory:e.directory,recursive:n})}}if(!i&&!(t instanceof Blob)&&(t=t.indexOf(",")>=0?t.split(",")[1]:t,!this.isBase64String(t)))throw Error("The supplied data is not valid base64 content.");const o=Date.now(),d={path:r,folder:a,type:"file",size:t instanceof Blob?t.size:t.length,ctime:o,mtime:o,content:t};return await this.dbRequest("put",[d]),{uri:d.path}}async appendFile(e){const r=this.getPath(e.directory,e.path);let t=e.data;const i=e.encoding,n=r.substr(0,r.lastIndexOf("/")),s=Date.now();let a=s;const c=await this.dbRequest("get",[r]);if(c&&c.type==="directory")throw Error("The supplied path is a directory.");if(await this.dbRequest("get",[n])===void 0){const h=n.indexOf("/",1);if(h!==-1){const y=n.substr(h);await this.mkdir({path:y,directory:e.directory,recursive:!0})}}if(!i&&!this.isBase64String(t))throw Error("The supplied data is not valid base64 content.");if(c!==void 0){if(c.content instanceof Blob)throw Error("The occupied entry contains a Blob object which cannot be appended to.");c.content!==void 0&&!i?t=btoa(atob(c.content)+atob(t)):t=c.content+t,a=c.ctime}const d={path:r,folder:n,type:"file",size:t.length,ctime:a,mtime:s,content:t};await this.dbRequest("put",[d])}async deleteFile(e){const r=this.getPath(e.directory,e.path);if(await this.dbRequest("get",[r])===void 0)throw Error("File does not exist.");if((await this.dbIndexRequest("by_folder","getAllKeys",[IDBKeyRange.only(r)])).length!==0)throw Error("Folder is not empty.");await this.dbRequest("delete",[r])}async mkdir(e){const r=this.getPath(e.directory,e.path),t=e.recursive,i=r.substr(0,r.lastIndexOf("/")),n=(r.match(/\//g)||[]).length,s=await this.dbRequest("get",[i]),a=await this.dbRequest("get",[r]);if(n===1)throw Error("Cannot create Root directory");if(a!==void 0)throw Error("Current directory does already exist.");if(!t&&n!==2&&s===void 0)throw Error("Parent directory must exist");if(t&&n!==2&&s===void 0){const d=i.substr(i.indexOf("/",1));await this.mkdir({path:d,directory:e.directory,recursive:t})}const c=Date.now(),o={path:r,folder:i,type:"directory",size:0,ctime:c,mtime:c};await this.dbRequest("put",[o])}async rmdir(e){const{path:r,directory:t,recursive:i}=e,n=this.getPath(t,r),s=await this.dbRequest("get",[n]);if(s===void 0)throw Error("Folder does not exist.");if(s.type!=="directory")throw Error("Requested path is not a directory");const a=await this.readdir({path:r,directory:t});if(a.files.length!==0&&!i)throw Error("Folder is not empty");for(const c of a.files){const o=`${r}/${c.name}`;(await this.stat({path:o,directory:t})).type==="file"?await this.deleteFile({path:o,directory:t}):await this.rmdir({path:o,directory:t,recursive:i})}await this.dbRequest("delete",[n])}async readdir(e){const r=this.getPath(e.directory,e.path),t=await this.dbRequest("get",[r]);if(e.path!==""&&t===void 0)throw Error("Folder does not exist.");const i=await this.dbIndexRequest("by_folder","getAllKeys",[IDBKeyRange.only(r)]);return{files:await Promise.all(i.map(async s=>{let a=await this.dbRequest("get",[s]);return a===void 0&&(a=await this.dbRequest("get",[s+"/"])),{name:s.substring(r.length+1),type:a.type,size:a.size,ctime:a.ctime,mtime:a.mtime,uri:a.path}}))}}async getUri(e){const r=this.getPath(e.directory,e.path);let t=await this.dbRequest("get",[r]);return t===void 0&&(t=await this.dbRequest("get",[r+"/"])),{uri:(t==null?void 0:t.path)||r}}async stat(e){const r=this.getPath(e.directory,e.path);let t=await this.dbRequest("get",[r]);if(t===void 0&&(t=await this.dbRequest("get",[r+"/"])),t===void 0)throw Error("Entry does not exist.");return{name:t.path.substring(r.length+1),type:t.type,size:t.size,ctime:t.ctime,mtime:t.mtime,uri:t.path}}async rename(e){await this._copy(e,!0)}async copy(e){return this._copy(e,!1)}async requestPermissions(){return{publicStorage:"granted"}}async checkPermissions(){return{publicStorage:"granted"}}async _copy(e,r=!1){let{toDirectory:t}=e;const{to:i,from:n,directory:s}=e;if(!i||!n)throw Error("Both to and from must be provided");t||(t=s);const a=this.getPath(s,n),c=this.getPath(t,i);if(a===c)return{uri:c};if(R(a,c))throw Error("To path cannot contain the from path");let o;try{o=await this.stat({path:i,directory:t})}catch{const l=i.split("/");l.pop();const f=l.join("/");if(l.length>0&&(await this.stat({path:f,directory:t})).type!=="directory")throw new Error("Parent directory of the to path is a file")}if(o&&o.type==="directory")throw new Error("Cannot overwrite a directory with a file");const d=await this.stat({path:n,directory:s}),h=async(u,l,f)=>{const p=this.getPath(t,u),b=await this.dbRequest("get",[p]);b.ctime=l,b.mtime=f,await this.dbRequest("put",[b])},y=d.ctime?d.ctime:Date.now();switch(d.type){case"file":{const u=await this.readFile({path:n,directory:s});r&&await this.deleteFile({path:n,directory:s});let l;!(u.data instanceof Blob)&&!this.isBase64String(u.data)&&(l=E.UTF8);const f=await this.writeFile({path:i,directory:t,data:u.data,encoding:l});return r&&await h(i,y,d.mtime),f}case"directory":{if(o)throw Error("Cannot move a directory over an existing object");try{await this.mkdir({path:i,directory:t,recursive:!1}),r&&await h(i,y,d.mtime)}catch{}const u=(await this.readdir({path:n,directory:s})).files;for(const l of u)await this._copy({from:`${n}/${l.name}`,to:`${i}/${l.name}`,directory:s,toDirectory:t},r);r&&await this.rmdir({path:n,directory:s})}}return{uri:c}}isBase64String(e){try{return btoa(atob(e))==e}catch{return!1}}}g._debug=!0;export{g as FilesystemWeb};

diff --git a/projects/douluo-wheel/v5/assets/web-hMdhtnU-.js b/projects/douluo-wheel/v5/assets/web-hMdhtnU-.js
@@ -1,0 +1,1 @@
+import{W as a}from"./index-DgLJ4sHx.js";class n extends a{async canShare(){return typeof navigator>"u"||!navigator.share?{value:!1}:{value:!0}}async share(e){if(typeof navigator>"u"||!navigator.share)throw this.unavailable("Share API not available in this browser");return await navigator.share({title:e.title,text:e.text,url:e.url}),{}}}export{n as ShareWeb};